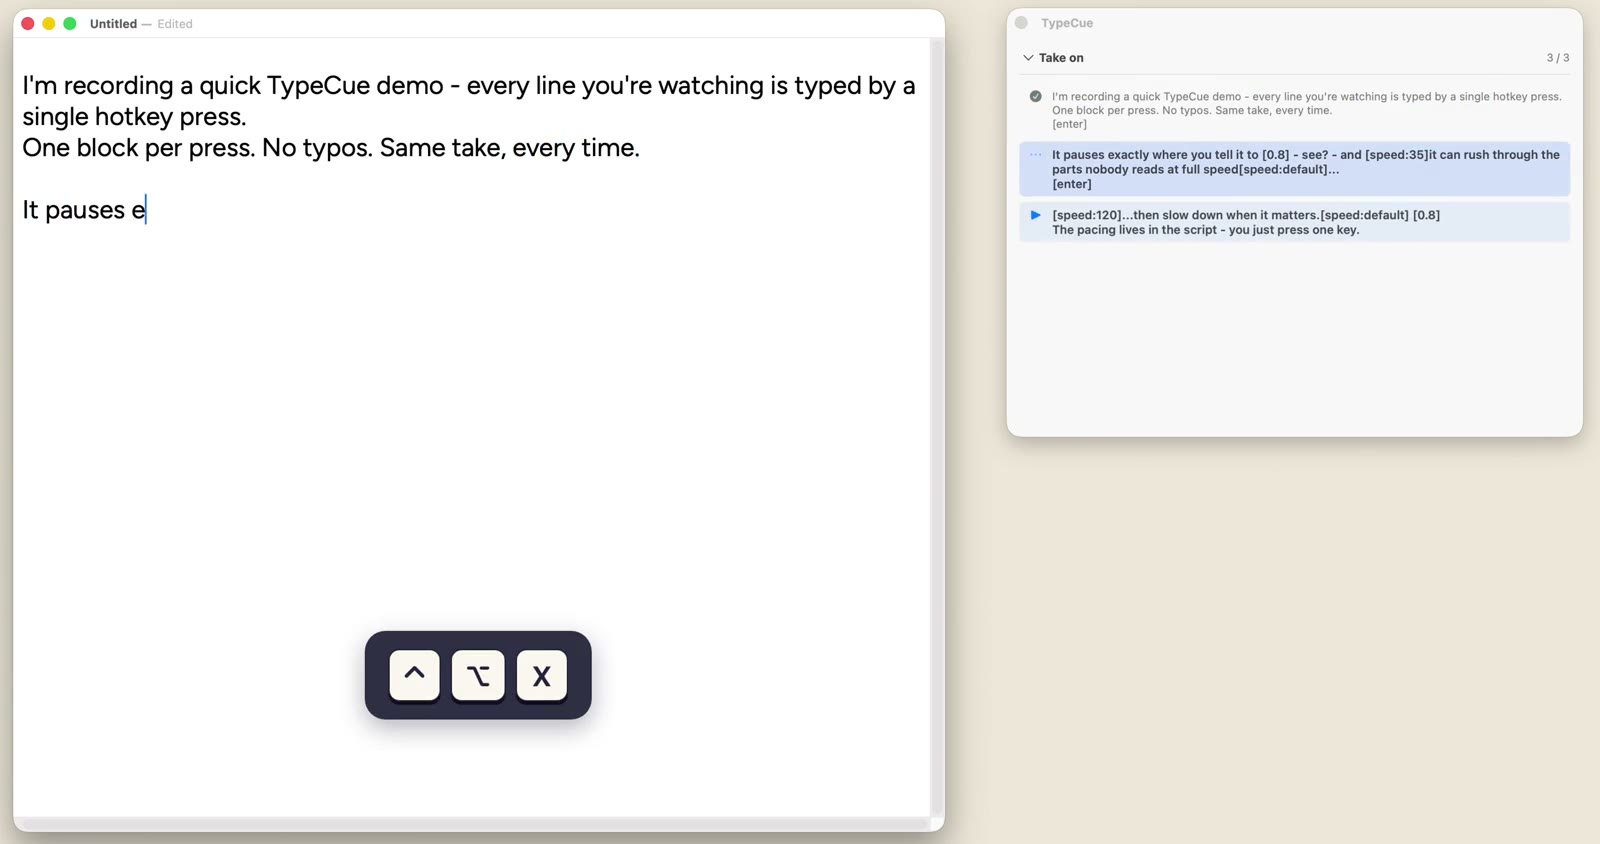
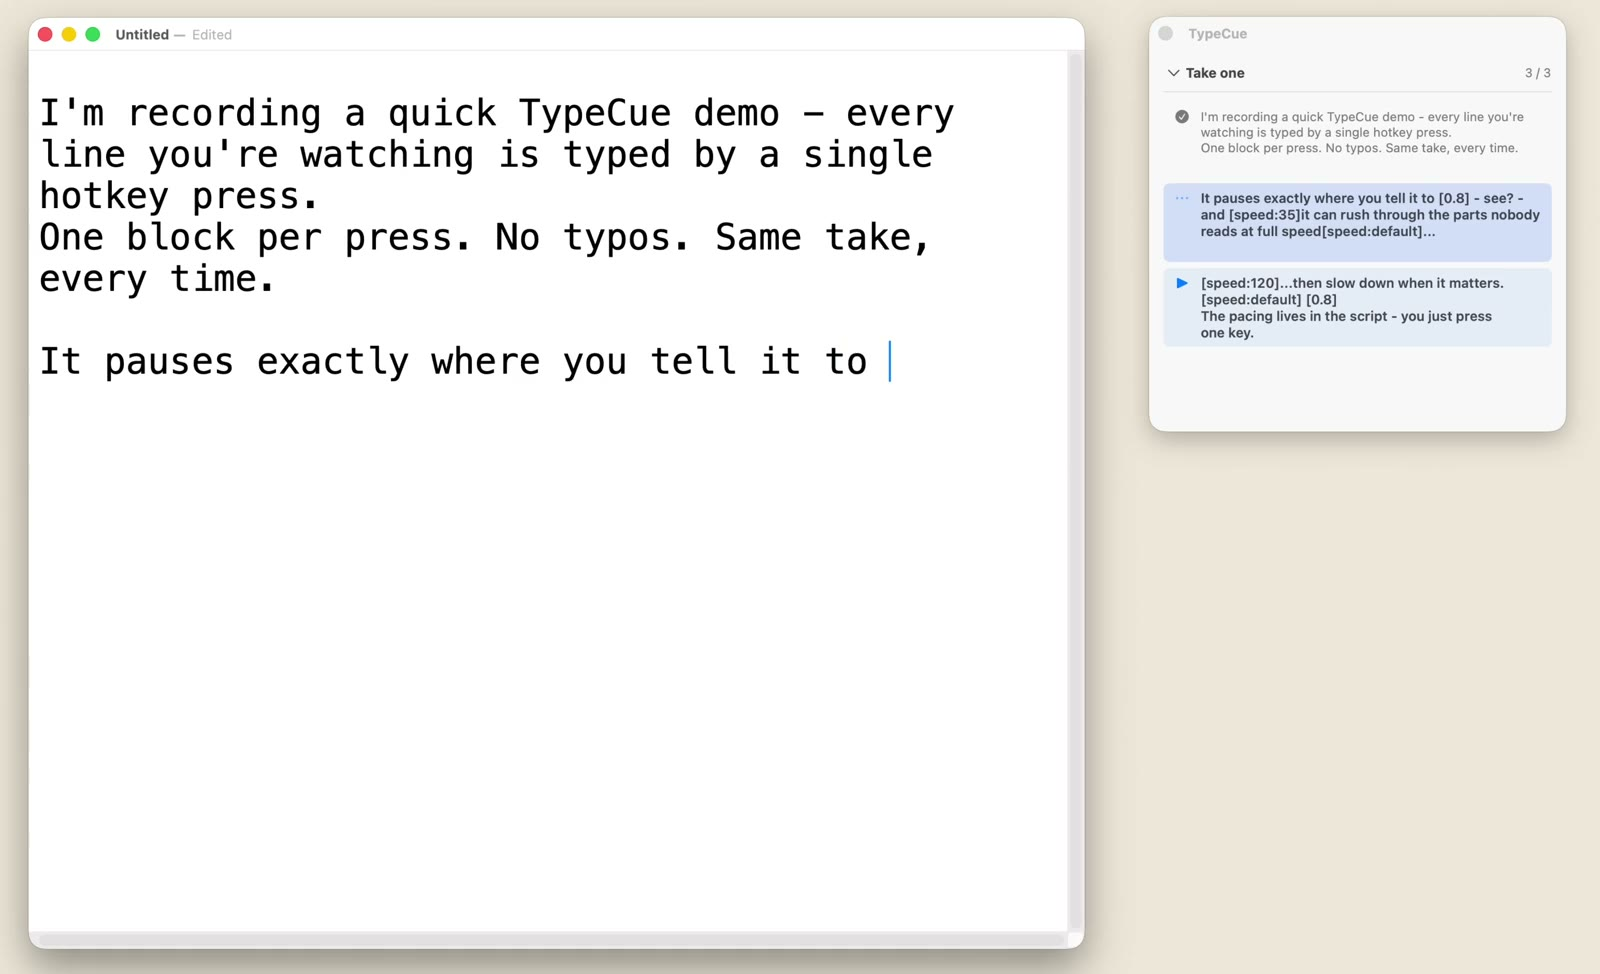
Demo take 2: new poster and aspect ratio for the re-recorded video
The release-CDN asset now carries the second take (script name fixed,
plain-text TextEdit, Screen Studio hotkey overlays baked in at the true
press timecodes). Poster regenerated from the mid-pause moment; the
player's intrinsic size updated to the new crop's 1600x974.

diff --git a/site/index.html b/site/index.html
@@ -475,7 +475,7 @@ The pacing lives in the script - you just press one key.</span></li>
       </div>
     </div>
     <div class="realvid" id="realvid" hidden>
-      <video id="realvid-player" controls playsinline preload="metadata" data-poster="demo-poster.jpg" data-src="https://github.com/alexpolonsky/TypeCue/releases/download/v0.1.1/TypeCue-demo.mp4" width="1600" height="844"></video>
+      <video id="realvid-player" controls playsinline preload="metadata" data-poster="demo-poster.jpg" data-src="https://github.com/alexpolonsky/TypeCue/releases/download/v0.1.1/TypeCue-demo.mp4" width="1600" height="974"></video>
     </div>
     <p class="demo-hint"><span id="hint-sim">Each press of <kbd id="k-ctrl">&#8963;</kbd><kbd id="k-opt">&#8997;</kbd><kbd id="k-x">X</kbd> types the next line -</span>
       <button class="fine-link" id="real-toggle" data-goatcounter-click="watch-recording">watch the real recording</button>.</p>